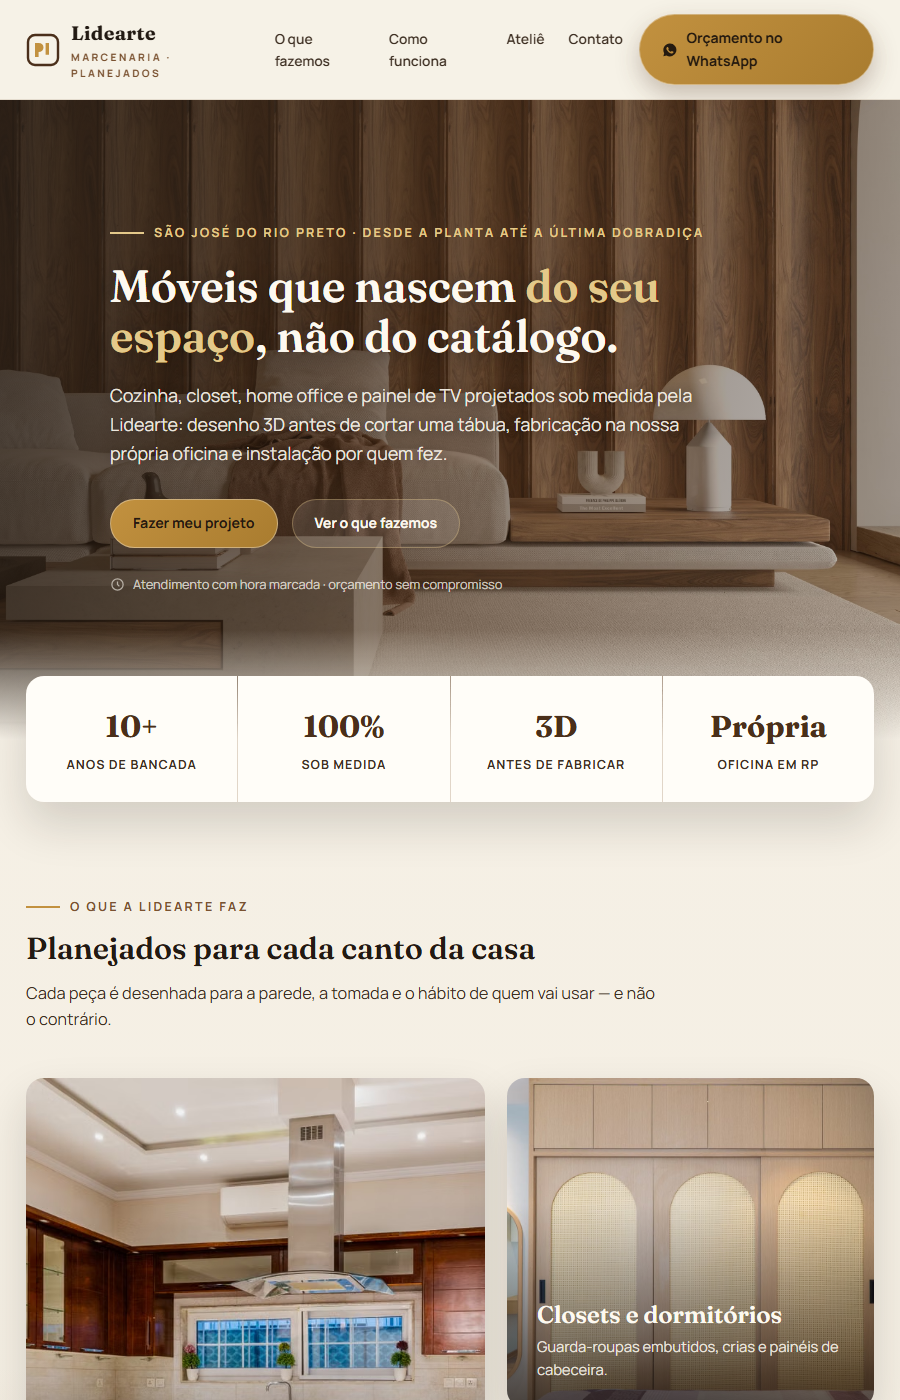
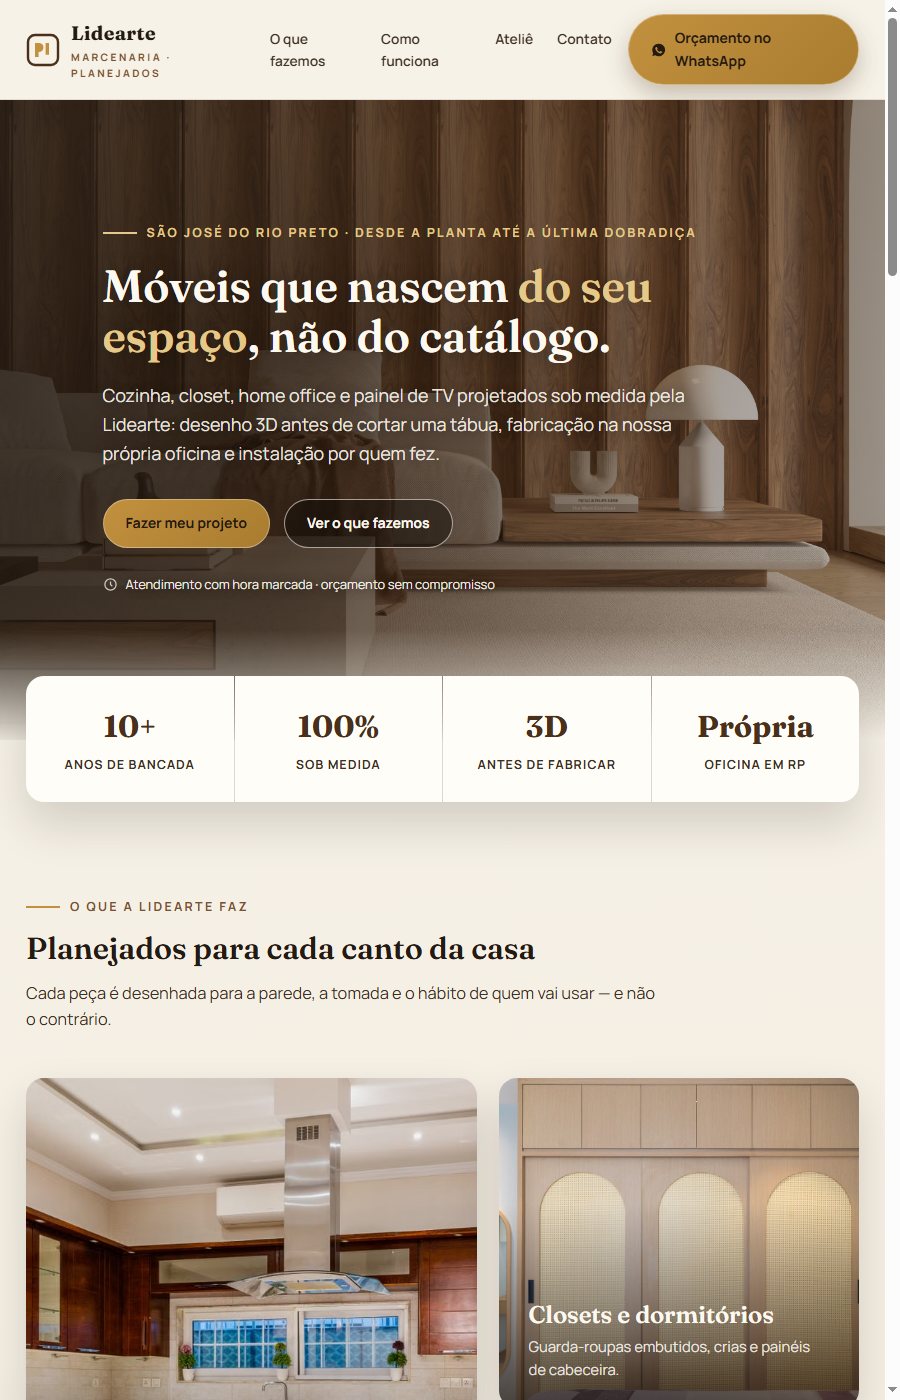
protos: publica lidearte-marcenaria,monbeni-noivas (gate R5: 9/10 9/10 )

diff --git a/p/monbeni-noivas/index.html b/p/monbeni-noivas/index.html
@@ -74,14 +74,15 @@ nav{position:sticky;top:0;z-index:50;background:rgba(250,246,241,.9);backdrop-fi
 
 .hero{position:relative;min-height:660px;display:flex;align-items:center;overflow:hidden;
   background:
-    linear-gradient(99deg, rgba(43,38,34,.74) 0%, rgba(94,70,50,.5) 52%, rgba(43,38,34,.22) 100%),
+    linear-gradient(99deg, rgba(43,38,34,.74) 0%, rgba(94,70,50,.56) 52%, rgba(43,38,34,.38) 100%),
     url('https://images.pexels.com/photos/20352742/pexels-photo-20352742.jpeg?auto=compress&cs=tinysrgb&fit=crop&h=1050&w=1600&dpr=2') center 40%/cover no-repeat;}
+.hero::before{content:"";position:absolute;inset:0;z-index:1;background:radial-gradient(ellipse 64% 60% at 27% 60%,rgba(30,25,20,.5),rgba(30,25,20,0) 72%)}
 .hero::after{content:"";position:absolute;inset:auto 0 0 0;height:120px;background:linear-gradient(rgba(250,246,241,0),var(--pearl))}
 .hero-in{position:relative;z-index:2;max-width:660px;padding:96px 0 128px;color:#fff}
 .hero .eyebrow{color:var(--gold-soft)}.hero .eyebrow::before{background:var(--gold-soft)}
 .hero h1{color:#fbf6ec;font-size:clamp(2.4rem,5.2vw,3.9rem);margin:18px 0 18px;font-weight:400;text-shadow:0 2px 26px rgba(0,0,0,.4)}
 .hero h1 i{font-style:normal;color:var(--gold-soft)}
-.hero p{font-size:1.13rem;color:rgba(251,246,236,.93);text-shadow:0 1px 14px rgba(0,0,0,.45)}
+.hero p{font-size:1.13rem;color:rgba(251,246,236,.93);max-width:46ch;text-shadow:0 1px 14px rgba(0,0,0,.45)}
 .hero-ctas{display:flex;flex-wrap:wrap;gap:14px;margin-top:34px}
 .hero-tag{margin-top:26px;display:inline-flex;align-items:center;gap:10px;font-size:.82rem;color:rgba(251,246,236,.85);border:1px dashed rgba(220,192,147,.6);border-radius:999px;padding:8px 18px}
 
@@ -89,7 +90,7 @@ nav{position:sticky;top:0;z-index:50;background:rgba(250,246,241,.9);backdrop-fi
 .stats-in{display:grid;grid-template-columns:repeat(4,1fr);gap:1px;background:rgba(185,141,79,.22);border-radius:var(--r);overflow:hidden;box-shadow:var(--shadow)}
 .stat{background:var(--card);padding:26px 20px;text-align:center}
 .stat b{display:block;font-family:'Prata',serif;font-size:1.7rem;color:var(--graphite)}
-.stat span{font-size:.76rem;font-weight:600;letter-spacing:.08em;text-transform:uppercase;color:var(--cappuccino)}
+.stat span{font-size:.76rem;font-weight:600;letter-spacing:.08em;text-transform:uppercase;color:var(--cappuccino);text-wrap:balance}
 @media(max-width:820px){.stats-in{grid-template-columns:repeat(2,1fr)}}
 
 section{padding:90px 0}
@@ -203,7 +204,7 @@ footer a{color:#e6d9c2;text-decoration:none}
     <h1>O vestido do seu grande dia, <i>sem precisar comprá-lo.</i></h1>
     <p>Noivas, debutantes, madrinhas e formandas: a Monbeni é a maior loja de aluguel de trajes de Rio Preto e região — coleção nova 2027, prova agendada e preço fixo de aluguel a partir de R$499.</p>
     <div class="hero-ctas">
-      <a class="btn gold" href="https://wa.me/5517988347528?text=Ol%C3%A1%21%20Quero%20agendar%20uma%20prova%20de%20vestido" target="_blank" rel="noopener">Agendar minha prova</a>
+      <a class="btn gold" href="https://wa.me/5517988347528?text=Ol%C3%A1%21%20Quero%20agendar%20uma%20prova%20de%20vestido" target="_blank" rel="noopener"><svg width="15" height="15" viewBox="0 0 24 24" fill="currentColor" aria-hidden="true"><path d="M12 2a10 10 0 0 0-8.6 15l-1.3 4.7 4.8-1.3A10 10 0 1 0 12 2zm5.3 14.1c-.2.6-1.3 1.2-1.8 1.2-.5.1-1 .2-3.2-.7-2.7-1.1-4.4-3.9-4.5-4.1-.1-.2-1-1.4-1-2.7 0-1.3.7-1.9.9-2.2.2-.2.5-.3.7-.3h.5c.2 0 .4 0 .6.5l.9 2.1c.1.2.1.4 0 .5l-.4.6c-.1.2-.3.3-.1.6.1.3.7 1.2 1.5 1.9 1 .9 1.8 1.2 2.1 1.3.2.1.4.1.6-.1l.8-1c.2-.2.4-.2.6-.1l2 1c.3.1.4.2.5.3v.5z"/></svg> Agendar minha prova</a>
       <a class="btn ghost" href="#colecoes">Ver coleções</a>
     </div>
     <div class="hero-tag">

diff --git a/p/lidearte-marcenaria/index.html b/p/lidearte-marcenaria/index.html
@@ -84,6 +84,7 @@ nav{position:sticky;top:0;z-index:50;background:rgba(246,241,231,.88);backdrop-f
     url('https://images.pexels.com/photos/26988002/pexels-photo-26988002.jpeg?auto=compress&cs=tinysrgb&fit=crop&h=1000&w=1600&dpr=2') center 45%/cover no-repeat;
 }
 .hero::after{content:"";position:absolute;inset:auto 0 0 0;height:110px;background:linear-gradient(rgba(246,241,231,0),var(--linen))}
+.hero::before{content:"";position:absolute;inset:0;z-index:1;background:radial-gradient(ellipse 72% 66% at 24% 58%,rgba(24,16,9,.44),rgba(24,16,9,0) 82%)}
 .hero-in{position:relative;z-index:2;max-width:680px;padding:90px 0 120px}
 .hero .eyebrow{color:var(--brass-soft)}
 .hero .eyebrow::before{background:var(--brass-soft)}
@@ -91,7 +92,7 @@ nav{position:sticky;top:0;z-index:50;background:rgba(246,241,231,.88);backdrop-f
 .hero h1 em{font-style:normal;color:var(--brass-soft)}
 .hero p{font-size:1.12rem;color:rgba(253,249,240,.92);max-width:56ch;text-shadow:0 1px 12px rgba(0,0,0,.4)}
 .hero-ctas{display:flex;flex-wrap:wrap;gap:14px;margin-top:32px}
-.hero-note{margin-top:26px;font-size:.8rem;color:rgba(253,249,240,.75);display:flex;align-items:center;gap:8px}
+.hero-note{margin-top:26px;font-size:.8rem;color:rgba(253,249,240,.95);display:flex;align-items:center;gap:8px;text-shadow:0 1px 10px rgba(0,0,0,.6)}
 .hero-note svg{flex:none;opacity:.8}
 
 /* ===== STATS ===== */
@@ -222,7 +223,7 @@ footer .logo b{color:#f3ead8}
     <p>Cozinha, closet, home office e painel de TV projetados sob medida pela Lidearte: desenho 3D antes de cortar uma tábua, fabricação na nossa própria oficina e instalação por quem fez.</p>
     <div class="hero-ctas">
       <a class="btn gold" href="https://wa.me/5517981368816?text=Ol%C3%A1%2C%20vim%20pelo%20site%20e%20quero%20projetar%20meus%20planejados" target="_blank" rel="noopener">Fazer meu projeto</a>
-      <a class="btn" href="#vitrine" style="background:rgba(253,249,240,.12);box-shadow:none">Ver o que fazemos</a>
+      <a class="btn" href="#vitrine" style="background:rgba(20,14,8,.5);box-shadow:none;border-color:rgba(253,249,240,.6)">Ver o que fazemos</a>
     </div>
     <div class="hero-note">
       <svg width="15" height="15" viewBox="0 0 24 24" fill="none" stroke="currentColor" stroke-width="2" aria-hidden="true"><circle cx="12" cy="12" r="9"/><path d="M12 7v5l3 3"/></svg>
@@ -249,7 +250,7 @@ footer .logo b{color:#f3ead8}
     </div>
     <div class="vitrine">
       <a class="v-card big" href="https://wa.me/5517981368816?text=Quero%20um%20or%C3%A7amento%20de%20cozinha%20planejada" target="_blank" rel="noopener">
-        <div class="bg" style="background-image:url('https://images.pexels.com/photos/18285887/pexels-photo-18285887.jpeg?auto=compress&cs=tinysrgb&w=1400&q=75');object-position:top"></div>
+        <div class="bg" style="background-image:url('https://images.pexels.com/photos/18285887/pexels-photo-18285887.jpeg?auto=compress&cs=tinysrgb&w=1400&q=75');background-position:center top"></div>
         <div class="ov"></div>
         <div class="v-body">
           <span class="tag">carro-chefe</span>
